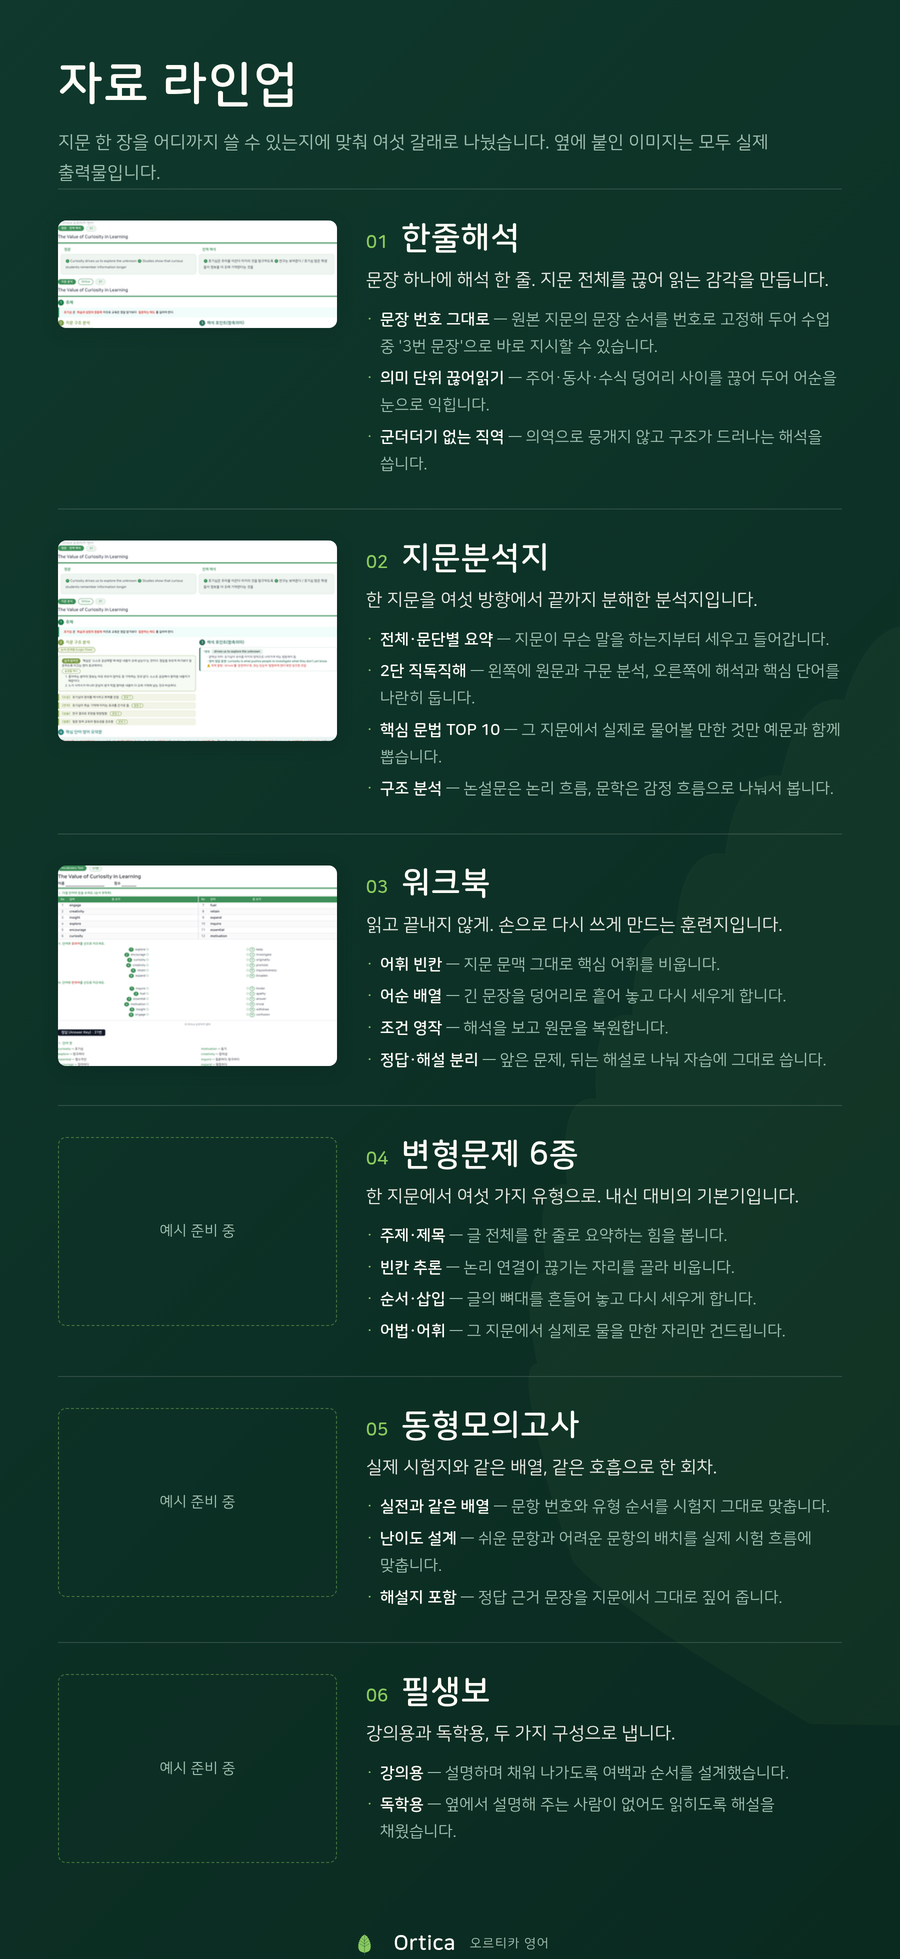
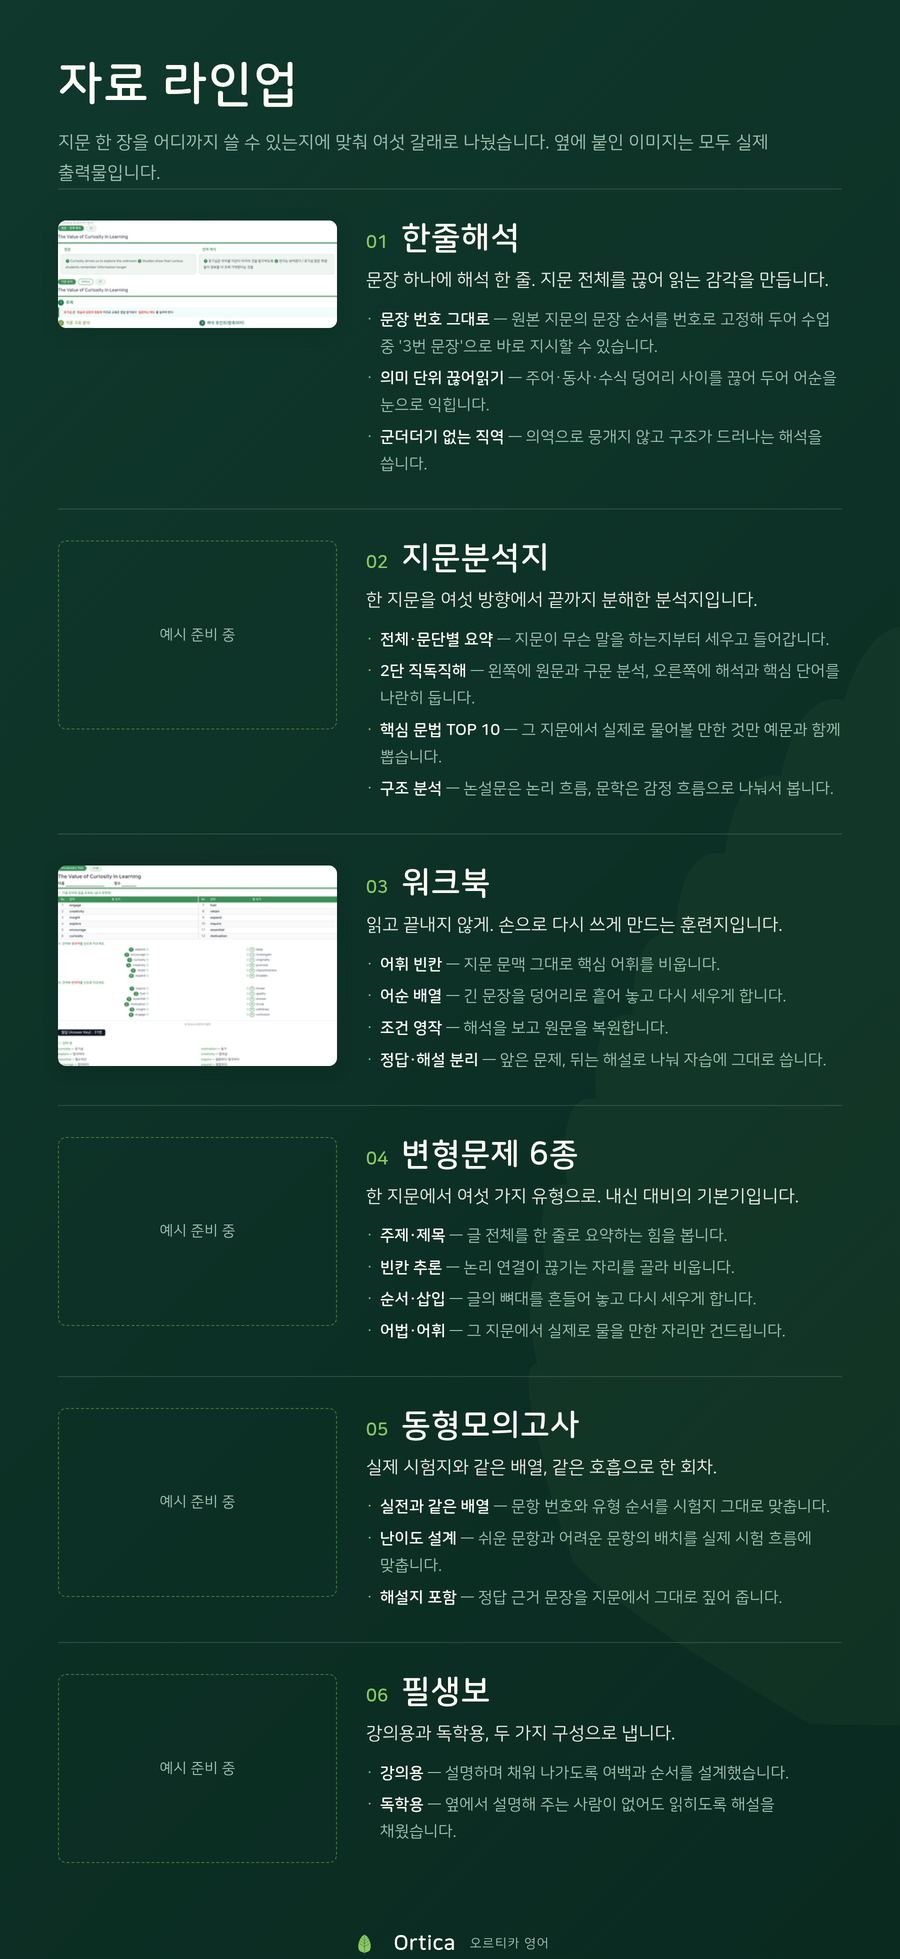
지문분석지 예시를 내림 — 포인트박스 버전으로 최종 결정
이 저장소의 report.html.j2 는 6섹션 구성이라 실제로 팔 자료와 다르다.
잘못된 예시가 라인업에 남지 않도록 자리를 비우고 '예시 준비 중'으로 표시한다.
포인트박스 버전 실물 캡처를 brand/assets/samples/ 에 넣고 catalog.py 의
지문분석지 항목에 sample 을 적으면 라인업과 상세페이지에 자동으로 들어간다.

Claude-Session: https://claude.ai/code/session_015BpsJgtaBR6xs1aCKnE4xw

Changed region(s): [[0.0622, 0.2491, 0.3733, 0.4048]]

diff --git a/brand/sample_shots.py b/brand/sample_shots.py
@@ -120,21 +120,20 @@ def shoot_all(width: int = 860) -> list[Path]:
         with Image.open(path) as im:
             print(f"  ✔ samples/{name}  ({im.width}×{im.height})")
 
-    # 1) 지문분석지 — 여섯 섹션이 한 화면에 들어오도록 넉넉히
-    shoot("analysis.png",
-          R.render_html(reps, footer_note=FOOTER, brand=BRAND), 1500)
+    # 지문분석지는 포인트박스 버전으로 최종 결정되어 여기서 뽑지 않는다.
+    # (이 저장소의 템플릿은 6섹션 구성이라 실제로 팔 자료와 다르다)
 
-    # 2) 한줄해석 — 문장 번호대로 원문과 해석이 나란히 붙는 앞부분
+    # 1) 한줄해석 — 문장 번호대로 원문과 해석이 나란히 붙는 앞부분
     shoot("one-line.png",
           R.render_html(reps, footer_note=FOOTER, brand=BRAND,
                         with_source=True), 330)
 
-    # 3) 핵심 어휘 리스트
+    # 2) 핵심 어휘 리스트
     shoot("vocablist.png",
           _capture(R.render_vocablist_pdf, reps, OUT / "_tmp.pdf",
                    footer_note=FOOTER), 1400)
 
-    # 4) 핵심 어휘 시험지
+    # 3) 핵심 어휘 시험지
     shoot("vocabtest.png",
           _capture(R.render_vocabtest_pdf, reps, OUT / "_tmp.pdf",
                    footer_note=FOOTER), 1800)

diff --git a/brand/catalog.py b/brand/catalog.py
@@ -69,8 +69,9 @@ MATERIALS: list[Item] = [
         ],
         spec=[("형태", "PDF"), ("구성", "지문당 6섹션 4~6쪽"), ("배포", "구매 후 즉시 다운로드")],
         who=["지문 하나를 깊게 끌고 가는 수업을 하는 선생님", "내신 범위를 통째로 정리해야 하는 학생"],
-        sample="analysis.png",
-        sample_note="실제 출력물 — 주제, 구조 분석, 해석 포인트, 핵심 어휘, 서술형 예상, 직독직해까지 한 장에.",
+        # 포인트박스 버전으로 최종 결정. 그 실물 캡처를 받으면 여기에 연결한다.
+        sample="",
+        sample_note="",
     ),
     Item(
         key="workbook",

diff --git a/brand/README.md b/brand/README.md
@@ -88,12 +88,13 @@ posts/02-analysis.md           본문 원고 초안
 | 자료 | 예시 파일 |
 | --- | --- |
 | 한줄해석 | `samples/one-line.png` |
-| 지문분석지 | `samples/analysis.png` |
 | 워크북 | `samples/vocabtest.png` |
 | 평가원 VOCA | `samples/vocablist.png` |
 
-**변형문제 6종 · 동형모의고사 · 필생보 · 형광펜 독해 · 구문독해**는 이 저장소에
-생성기가 없어 예시 자리를 비워 뒀습니다(목록에 '예시 준비 중'으로 표시).
+**지문분석지**는 포인트박스 버전으로 최종 결정되어, 이 저장소의 6섹션
+템플릿으로 뽑은 예시는 쓰지 않습니다. **변형문제 6종 · 동형모의고사 · 필생보 ·
+형광펜 독해 · 구문독해**는 생성기가 없습니다. 모두 예시 자리를 비워 뒀습니다
+(목록에 '예시 준비 중'으로 표시).
 실물 화면 캡처를 `brand/assets/samples/` 에 넣고 `catalog.py` 의 해당 항목에
 `sample="파일명"` 을 적으면 라인업과 상세페이지에 자동으로 들어갑니다.
 

diff --git a/brand/posts/02-analysis.md b/brand/posts/02-analysis.md
@@ -29,10 +29,7 @@
 
 ## 실제 자료 예시
 
-![](samples/analysis.png)
-<!-- 이미지: brand/assets/samples/analysis.png -->
-
-실제 출력물 — 주제, 구조 분석, 해석 포인트, 핵심 어휘, 서술형 예상, 직독직해까지 한 장에.
+<!-- 실제 자료 화면 캡처를 여기에 넣으세요 -->
 
 <!-- ▼ 직접 채울 곳 (VOICE.md §4) ─────────────────────────────
    · 이 자료를 만들게 된 계기가 된 구체적인 순간 한 문단
